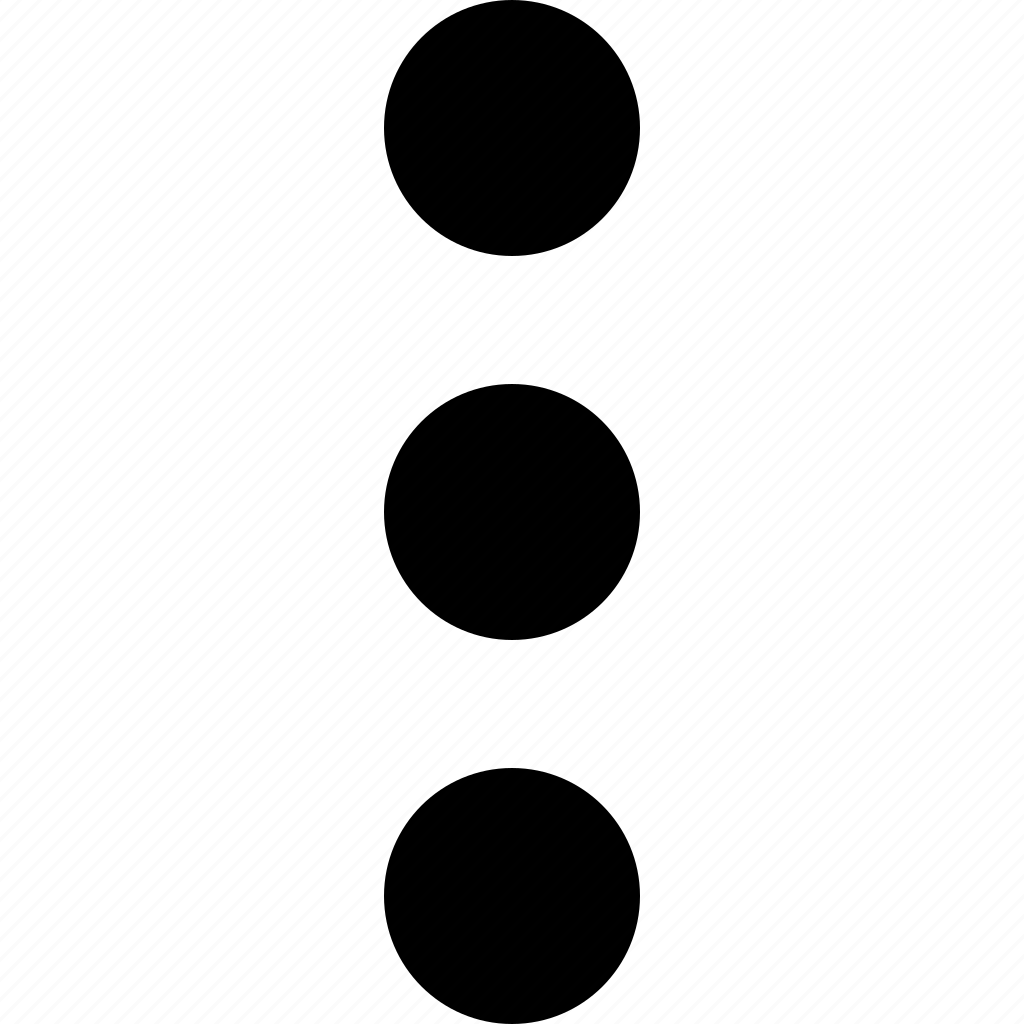
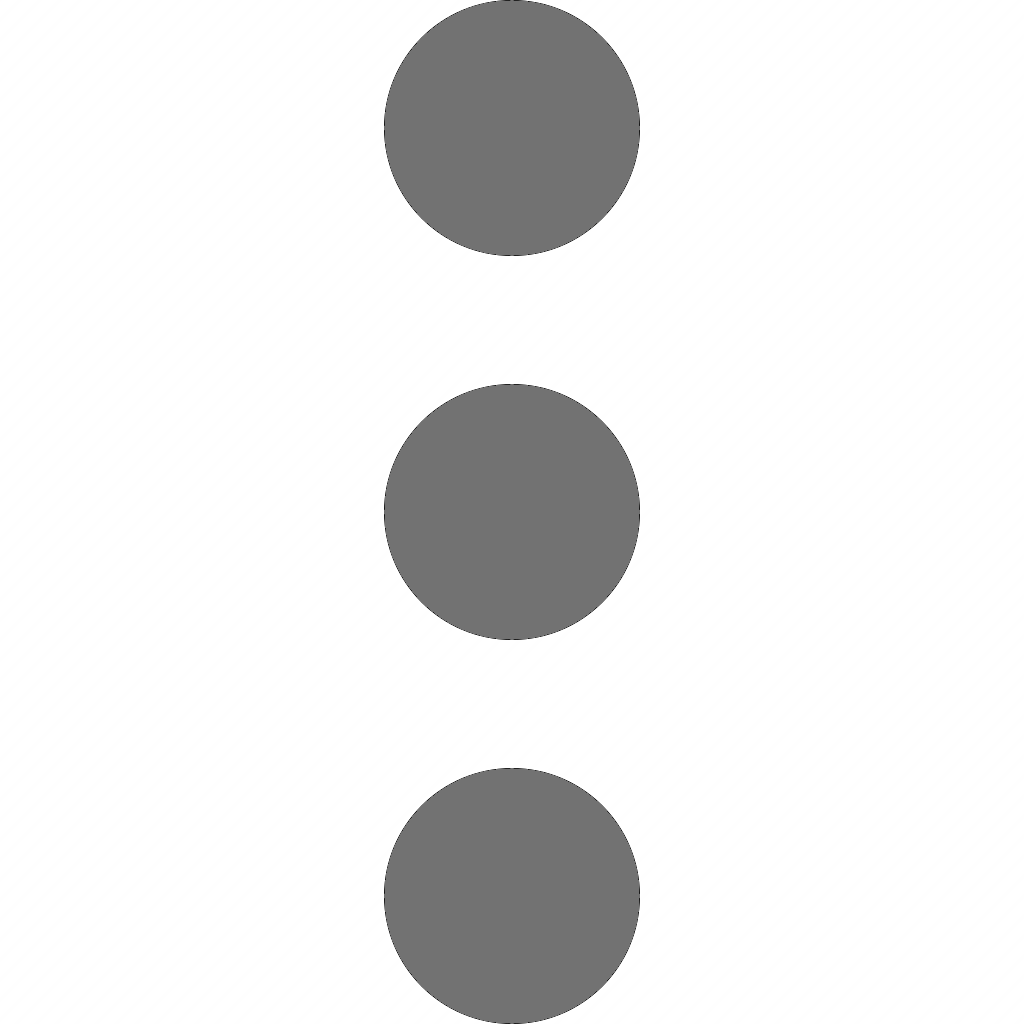
Changes to editQuestionnaire
I made the moreBtn gray instead of black along with removing an img duplication and making the moreBtn look pretty nice.

Changed region(s): [[0.375, 0.75, 0.625, 1.0], [0.375, 0.375, 0.625, 0.625], [0.375, 0.0, 0.625, 0.25]]

diff --git a/mysite/Remember/templates/Remember/editQuestionnaire.html b/mysite/Remember/templates/Remember/editQuestionnaire.html
@@ -33,16 +33,20 @@
                 border: none;
             }
 
-            .btn.btn-secondary.dropdown-toggle{
+            .settings.btn.btn-secondary.dropdown-toggle{
                 background-color: grey;
                 width: 50%;
             }
 
-            .btn.btn-secondary{
+            .settings.btn.btn-secondary{
                 background-color: white;
                 width: 50%;
             }
 
+            .btn.btn-primary.btn-lg{
+                background-color: darkslateblue;
+                border: 3px solid black;
+            }
 
             hr {
                 margin-top: 0rem;
@@ -54,12 +58,6 @@
             h1{
                 color: white;
                 padding: 3%;
-            }
-
-            h2{
-                color: black;
-                padding: 2%;
-                font-weight: bold;
             }
 
             .boxContent{
@@ -91,19 +89,33 @@
             .moreBtn{
                 background: transparent url(/../../static/polls/images/moreBtn.png) no-repeat;
                 background-color: transparent;
-                mix-blend-mode: multiply;
-                background-size: cover;
+                background-size:cover;
+            }
+
+            .btn-secondary{
+                background-color: transparent;
                 border: none;
-                width:5vw;
-                height:5vw;
-                max-width: 40px;
-                max-height: 40px;
+                box-shadow: none;
             }
 
             .d-flex.justify-content-start{
                 padding:0px;
                 margin:0px;
             }
+
+            .rounded-circle{
+                max-width:10vw;
+
+            }
+            .btn.btn-secondary.rounded-circle{
+                max-width: 70px;
+                max-height: 70px;
+                width:10vw;
+                height: 10vw;
+            }
+
+
+            
 
 
 
@@ -129,23 +141,29 @@
             </a>
             <form class="form-inline">
                 <div class="btn-group">
-                    <button type="button" class="btn btn-secondary dropdown-toggle" data-toggle="dropdown" aria-haspopup="true" aria-expanded="false">
+                    <button type="button" class="settings btn btn-secondary dropdown-toggle" data-toggle="dropdown" aria-haspopup="true" aria-expanded="false">
                         <img src="/../../static/polls/images/settingsIcon.png" style=width:42px;height:42px>
                     </button>
                     <div class="dropdown-menu dropdown-menu-right">
                       <button class="dropdown-item" type="button">Logout</button>
                     </div>
-                  </div>
+                </div>
             </form>
         </nav>
         <hr/>
-
-        
-        <div class="d-flex justify-content-start">
-            <h1 style=" padding: 3%; padding-left: 10%;">
-                Person's Questionnaire
-            </h1>
-        </div>
+        <!--For the length, the order goes top, right, bottom, left-->
+        <div class="d-flex" style="padding: 0vw 5vw 0vw 5vw">
+            <div class="mr-auto p-2 justify-content-start align-self-center">
+                <h1>
+                    Person's Questionnaire
+                </h1>
+            </div>
+            <div class="p-2 align-self-center">
+                <button type="button" class="btn btn-primary btn-lg">
+                    Make Question
+                </button>
+            </div>
+          </div>
         
 
         <div class="container">
@@ -217,13 +235,13 @@
                     <div class="d-flex justify-content-end">
                         <form class="form-inline">
                             <div class="btn-group">
-                                <button type="button" class="btn btn-secondary" data-toggle="dropdown" aria-haspopup="true" aria-expanded="false">
-                                    <img src="/../../static/polls/images/moreBtn.png" class="moreBtn">
-                                </button>
+                                <!-- for background box then: class="btn btn-secondary dropdown"-->
+                                <button type="button" class="btn btn-secondary moreBtn rounded-circle" data-toggle="dropdown" aria-haspopup="true" aria-expanded="false" ></button>
                                 <div class="dropdown-menu dropdown-menu-right">
                                     <button class="dropdown-item" type="button">Edit Question</button>
+                                    <button class="dropdown-item" type="button">Delete Question</button>
                                 </div>
-                                </div>
+                            </div>
                         </form>
                     </div>
                 </div>
@@ -302,13 +320,13 @@
                     <div class="d-flex justify-content-end">
                         <form class="form-inline">
                             <div class="btn-group">
-                                <button type="button" class="btn btn-secondary" data-toggle="dropdown" aria-haspopup="true" aria-expanded="false">
-                                    <img src="/../../static/polls/images/moreBtn.png" class="moreBtn">
+                                <button type="button" class="btn btn-secondary moreBtn rounded-circle" data-toggle="dropdown" aria-haspopup="true" aria-expanded="false">
                                 </button>
                                 <div class="dropdown-menu dropdown-menu-right">
                                     <button class="dropdown-item" type="button">Edit Question</button>
+                                    <button class="dropdown-item" type="button">Delete Question</button>
                                 </div>
-                                </div>
+                            </div>
                         </form>
                     </div>
                 </div>
@@ -386,13 +404,13 @@
                     <div class="d-flex justify-content-end">
                         <form class="form-inline">
                             <div class="btn-group">
-                                <button type="button" class="btn btn-secondary" data-toggle="dropdown" aria-haspopup="true" aria-expanded="false">
-                                    <img src="/../../static/polls/images/moreBtn.png" class="moreBtn">
+                                <button type="button" class="btn btn-secondary moreBtn rounded-circle" data-toggle="dropdown" aria-haspopup="true" aria-expanded="false">
                                 </button>
                                 <div class="dropdown-menu dropdown-menu-right">
                                     <button class="dropdown-item" type="button">Edit Question</button>
+                                    <button class="dropdown-item" type="button">Delete Question</button>
                                 </div>
-                                </div>
+                            </div>
                         </form>
                     </div>
                 </div>
@@ -471,13 +489,13 @@
                 <div class="d-flex justify-content-end">
                     <form class="form-inline">
                         <div class="btn-group">
-                            <button type="button" class="btn btn-secondary" data-toggle="dropdown" aria-haspopup="true" aria-expanded="false">
-                                <img src="/../../static/polls/images/moreBtn.png" class="moreBtn">
+                            <button type="button" class="btn btn-secondary moreBtn rounded-circle" data-toggle="dropdown" aria-haspopup="true" aria-expanded="false">
                             </button>
                             <div class="dropdown-menu dropdown-menu-right">
                                 <button class="dropdown-item" type="button">Edit Question</button>
+                                <button class="dropdown-item" type="button">Delete Question</button>
                             </div>
-                            </div>
+                        </div>
                     </form>
                 </div>
             </div>
@@ -556,13 +574,13 @@
                 <div class="d-flex justify-content-end">
                     <form class="form-inline">
                         <div class="btn-group">
-                            <button type="button" class="btn btn-secondary" data-toggle="dropdown" aria-haspopup="true" aria-expanded="false">
-                                <img src="/../../static/polls/images/moreBtn.png" class="moreBtn">
+                            <button type="button" class="btn btn-secondary moreBtn rounded-circle" data-toggle="dropdown" aria-haspopup="true" aria-expanded="false">
                             </button>
                             <div class="dropdown-menu dropdown-menu-right">
                                 <button class="dropdown-item" type="button">Edit Question</button>
+                                <button class="dropdown-item" type="button">Delete Question</button>
                             </div>
-                            </div>
+                        </div>
                     </form>
                 </div>
             </div>
@@ -641,13 +659,13 @@
                 <div class="d-flex justify-content-end">
                     <form class="form-inline">
                         <div class="btn-group">
-                            <button type="button" class="btn btn-secondary" data-toggle="dropdown" aria-haspopup="true" aria-expanded="false">
-                                <img src="/../../static/polls/images/moreBtn.png" class="moreBtn">
+                            <button type="button" class="btn btn-secondary moreBtn rounded-circle" data-toggle="dropdown" aria-haspopup="true" aria-expanded="false">
                             </button>
                             <div class="dropdown-menu dropdown-menu-right">
                                 <button class="dropdown-item" type="button">Edit Question</button>
+                                <button class="dropdown-item" type="button">Delete Question</button>
                             </div>
-                            </div>
+                        </div>
                     </form>
                 </div>
             </div>
@@ -726,18 +744,24 @@
                 <div class="d-flex justify-content-end">
                     <form class="form-inline">
                         <div class="btn-group">
-                            <button type="button" class="btn btn-secondary" data-toggle="dropdown" aria-haspopup="true" aria-expanded="false">
-                                <img src="/../../static/polls/images/moreBtn.png" class="moreBtn">
+                            <button type="button" class="btn btn-secondary moreBtn rounded-circle" data-toggle="dropdown" aria-haspopup="true" aria-expanded="false">
                             </button>
                             <div class="dropdown-menu dropdown-menu-right">
                                 <button class="dropdown-item" type="button">Edit Question</button>
+                                <button class="dropdown-item" type="button">Delete Question</button>
                             </div>
-                            </div>
+                        </div>
                     </form>
                 </div>
             </div>
         </div>
     </div>
+    <div class="d-flex justify-content-center align-self-center" style="padding: 5vw 5vw 5vw 5vw">
+            <button type="button" class="btn btn-primary btn-lg">
+                Make Question
+            </button>
+    </div>
+
         <!-- Optional JavaScript -->
 
         <script>
